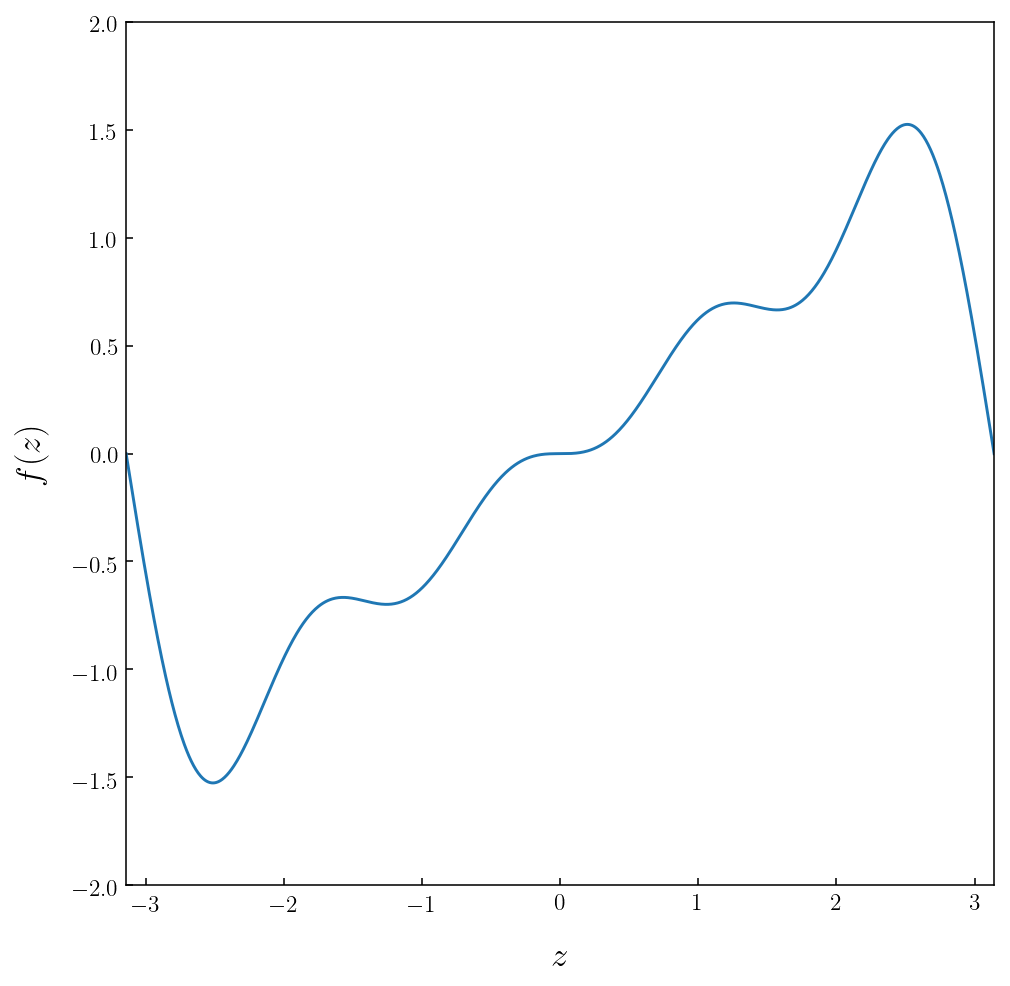
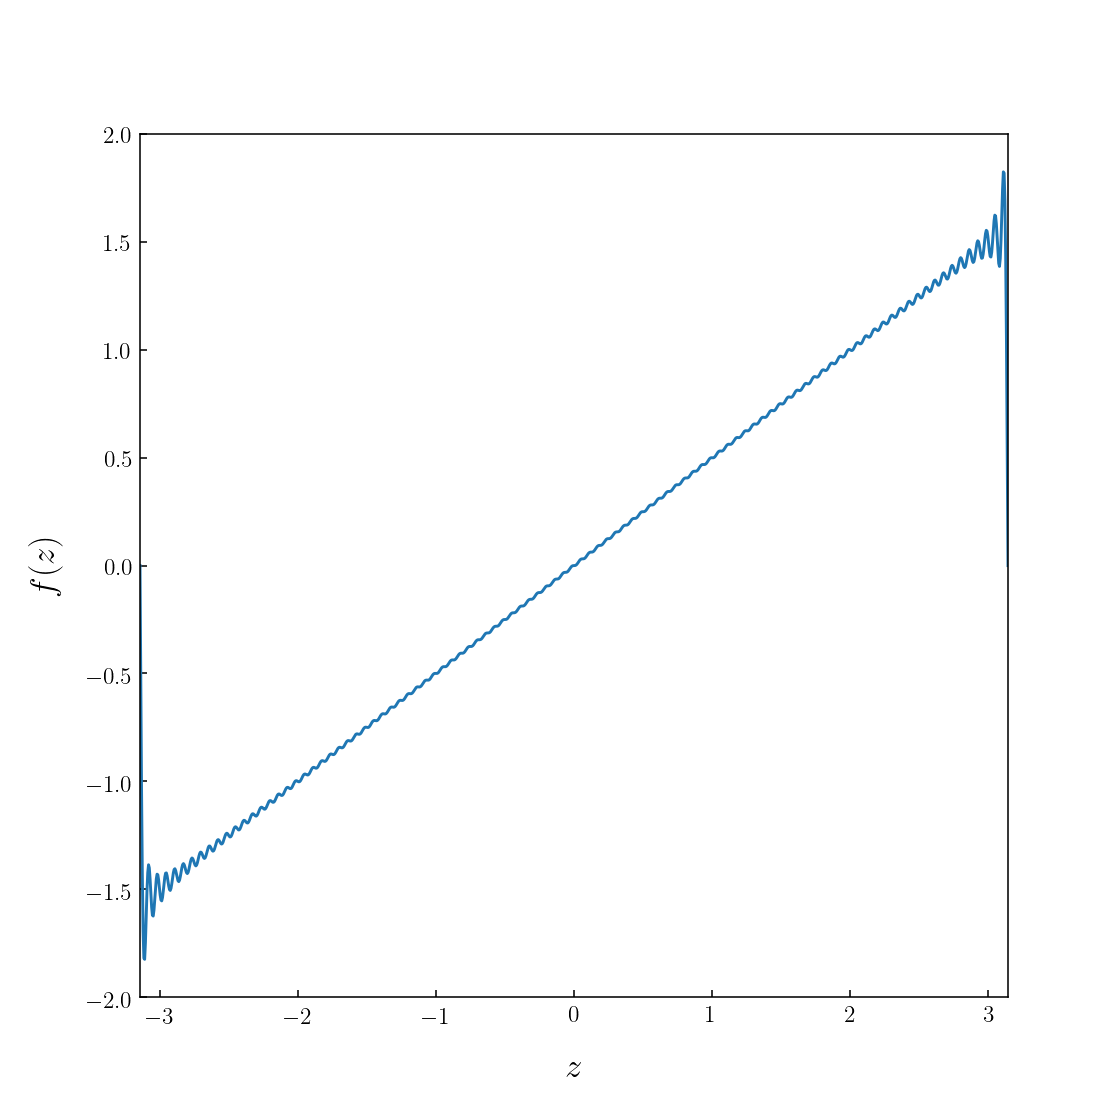
made things prettier

diff --git a/render.py b/render.py
@@ -39,13 +39,21 @@ FUNCTION        = lambda x, n : np.power(-1,n+1) / n       # FUNCTION EXPRESSION
 
 def summation(function, domain, kernel = KERNEL, N = 0, M = 1):        # SUMMATION LIMIT MUST BE INCREASED BY 1 AS A RESULT OF CONVENTION
 
+    print("//-------------------------")
+    print("//   COMPUTING")
+    print("//-------------------------")
+
     S_m = np.zeros(domain.size)                                     # INITIALIZATION
     for k in range(N,M):
         S_m = S_m + np.real(function(domain,k)*kernel(domain,k))             # SUMMATION
+
+    print("//   PLOTTING")
+    print("//-------------------------")
+
     return S_m
 
 DOMAIN          = np.linspace(X_LIM_INF,X_LIM_SUP,RESOLUTION)
-DATA            = summation(FUNCTION, DOMAIN, N=1, M=5)
+DATA            = summation(FUNCTION, DOMAIN, N=1, M=100+1)
 
 # PLOT INITIALIZATION
 
@@ -65,4 +73,7 @@ ax.tick_params(axis="x", direction="in", labelsize=TICK_FONT_SIZE)
 # ax.set_title('hi mom')
 # ax.grid(True)
 
-canvas.print_figure('test', bbox_inches="tight")
+print("//   RENDERING")
+print("//-------------------------")
+
+canvas.print_figure('test')
